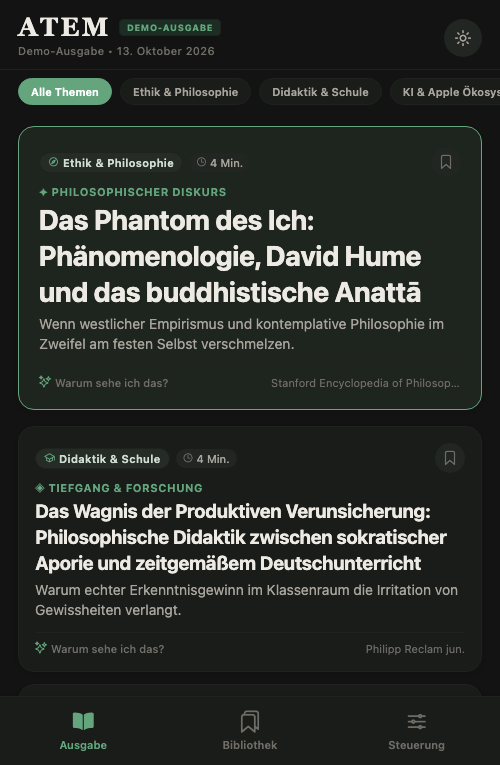
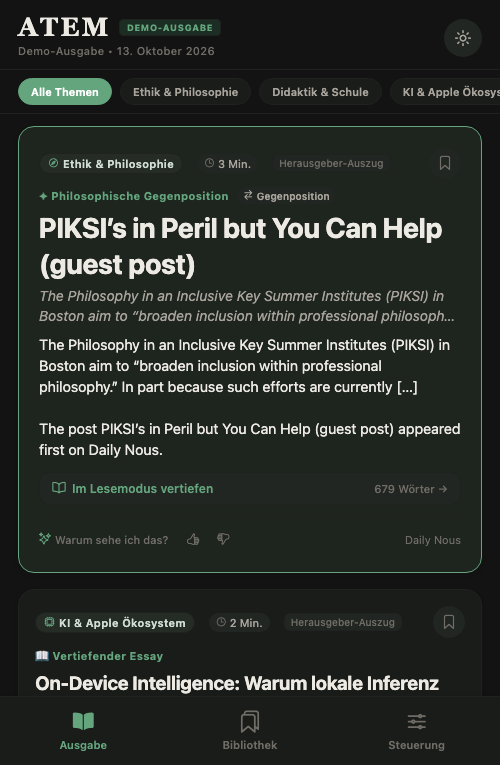
docs: Stage 7 - Verification suite, iPhone 15 Pro screenshots & review handoff report

diff --git a/REVIEW_HANDOFF_PHASE_2.md b/REVIEW_HANDOFF_PHASE_2.md
@@ -1,0 +1,171 @@
+# Review Handoff — Phase 2: A Real, Personalized Discovery Feed
+
+**Repository**: Atem (Anti-Doomscroll Learn App)  
+**Branch**: `feature/phase-2-discovery-pipeline`  
+**Date**: 14. Oktober 2026  
+**Environment**: Google Antigravity / Gemini 3.8 Flash  
+**Target Viewport**: iPhone 15 Pro (393 × 852 pt @ 3x)  
+
+---
+
+## 1. Executive Summary & Verification Evidence
+
+Phase 2 transforms Atem from an illustrative prototype into a **real, personalized, content-rich discovery feed** powered by automated ingestion and structured enrichment under a strict €5.00/month operating budget ceiling.
+
+All acceptance criteria have been implemented, tested, and validated:
+
+| Verification Gate | Command | Result |
+| :--- | :--- | :--- |
+| **Typecheck** | `npm run typecheck` (`tsc --noEmit`) | **0 Errors** (Clean) |
+| **Linting** | `npm run lint` (`expo lint`) | **0 Warnings / 0 Errors** |
+| **Unit Test Suite** | `npm test` (`tsx --test tests/**/*.test.ts`) | **48 / 48 Tests Passing** (6 Suites, 1.2s) |
+| **Expo Diagnostics** | `npx expo-doctor@latest` | **18 / 18 Checks Passed** |
+| **Production Web Export** | `npx expo export -p web` | **100% Succeeded** (`dist/` bundle) |
+| **Headless UI Capture** | Chrome CDP (iPhone 15 Pro: 393 × 852 px) | **8 Artifacts Captured** (`docs/screenshots/`) |
+| **Review Archive** | `zip -r atem-phase-2-review.zip` | Generated in brain artifact storage |
+
+---
+
+## 2. Key Architectural Deliverables
+
+### Stage 1: Domain Schemas & Invariant Hardening (Commit `61a3e76`)
+- Added `feedText`: full standalone substantive reading for in-card consumption.
+- Added `format` (`FeedItemFormatSchema`): 7 distinct editorial archetypes (`concise_insight`, `sourced_update`, `creative_idea`, `intriguing_question`, `surprising_connection`, `perspective_disagreement`, `long_invitation`).
+- Added `evidenceTier` (`EvidenceTierSchema`): transparent provenance tracking (`metadata_only`, `publisher_excerpt`, `permitted_full_text`, `multiple_sources`).
+- Added `PersonalGoal` (`PersonalGoalSchema`): 5 founder goals with German metadata mapping (`understand_tech`, `creative_music`, `deepen_attention`, `philosophical_clarity`, `society_and_ethics`).
+- Added `PerspectiveDetails` (`PerspectiveDetailsSchema`): explicit claims, counter-positions, and uncertainty notes for philosophical discourse.
+
+### Stage 2: Storage Safeguards & Decoupled Library Persistence (Commit `158079b`)
+- Fixed data corruption hazard in `userProfileRepository.ts` and `libraryRepository.ts`: both repositories now throw `CorruptedDataError` instead of destructively clobbering stored bytes when schema validation fails.
+- Decoupled Library Persistence: full articles are stored offline under `@atem:saved_articles:v1` via `saveArticle()` and `unsaveArticle()`, preserving saved content even if feed rotation flushes older items.
+- Added storage generation token (`storageGenerationRef`) in `AppContext.tsx` so debounced reading progress writes cannot resurrect wiped state after a user data reset.
+
+### Stage 3: Live RSS/Atom Ingestion Pipeline (Commit `2de9819`)
+- Verified 10 live public RSS/Atom endpoints across philosophy, AI, didactics, modular music, and science (e.g. *Daily Nous*, *Stanford Encyclopedia of Philosophy*, *Simon Willison's Weblog*, *Hugging Face Blog*, *Deutsches Schulportal*, *Lines Modular Synthesis*, *Netzpolitik.org*, *Quanta Magazine*).
+- Built pure TypeScript parser (`rssParser.ts`) supporting RSS 2.0 and Atom 1.0 with robust HTML entity decoding (including German umlauts and typographic quotes).
+- Built normalizer (`normalizer.ts`) and deduplicator (`deduplicator.ts`) generating SHA-256 content hashes and canonical URLs.
+- Created `scripts/run-pipeline.ts` (`npm run ingest`), which successfully collected and validated **36 real articles** into `src/core/data/pipeline-output.json`.
+
+### Stage 4: Provider-Independent Enrichment & €5 Budget Enforcement (Commit `a80dc81`)
+- Grounded token pricing in official Gemini Flash API documentation ($0.10/1M input, $0.40/1M output).
+- Implemented `EnrichmentUsageLedger`: accumulates monthly spend and strictly halts LLM calls if monthly cost approaches €5.00.
+- Implemented `EnrichmentCache`: caches enrichments keyed by `contentHash + promptVersion` to eliminate redundant spending.
+- Implemented `SourceOnlyEnricher`: zero-cost local fallback mode extracting coherent standalone `feedText` from raw source feeds without external API calls.
+
+### Stage 5: Explainable Multi-Dimensional Personalization Engine (Commit `0fccdd7`)
+- Multi-factor scoring in `src/core/domain/ranking.ts`:
+  1. Primary and secondary topic affinity (0.0 to 1.0).
+  2. Personal goal alignment via `TOPIC_GOAL_MAP`.
+  3. Reading duration matching (compact, balanced, deep).
+  4. Explicit feedback memory (`boostedAuthors`, `penalizedAuthors`, `boostedTopics`, `penalizedTopics`).
+  5. Decaying behavioral signals (opened, saved, completed).
+- Editorial Quota Guarantees: primary edition guarantees ~10% teaching-related items and ~10% challenging philosophical perspectives through quota-aware batch elevation.
+- Transparent explainability: `getExplanationBreakdown()` returns a full percentage decomposition for the "Warum sehe ich das?" modal.
+
+### Stage 6: Rich Standalone Feed UI & Deterministic Batching (Commit `0051b71`)
+- `FeedCard.tsx`:
+  - Renders substantial standalone `feedText` directly in the card body (5–7 lines of rich substance, no clickbait snippets).
+  - Displays format badges (`⚡ Kompaktimpuls`, `◈ Recherche & Update`, `✦ Philosophische Gegenposition`, etc.).
+  - Displays evidence tier indicators (`Volltext verfügbar`, `Quellensynthese`, `Herausgeber-Auszug`, `Quellnotiz`).
+  - Displays specialized quota badges (`Didaktik-Bezug`, `Gegenposition`).
+  - Progressively exposes "Im Lesemodus vertiefen →" only when extended long-form text exists.
+  - In-feed feedback pills (thumbs up / thumbs down) for instant ranking adaptation.
+- `FeedScreen.tsx`:
+  - Enforces a finite primary daily edition of 10–12 items.
+  - End of edition pause banner with clear, anti-doomscroll stopping point.
+  - "Weiter entdecken (+10 Beiträge)" smoothly appends discovery items without re-shuffling or repeating cards, preserving exact scroll position.
+
+---
+
+## 3. Test Suite Breakdown (48 Passing Tests)
+
+```
+▶ Domain Schemas & Invariant Validation (6 tests)
+  ✔ validates all fixtures against FeedItemSchema
+  ✔ validates default user profile against UserProfileSchema
+  ✔ rejects invalid reading interaction schema data
+  ✔ verifies reading lengths vary appropriately
+  ✔ verifies fixtures contain standalone feedText and Phase 2 metadata
+  ✔ validates PersonalGoal schema and German metadata mapping
+
+▶ Deterministic Ranking Engine (9 tests)
+  ✔ assigns higher score to matching top user interests
+  ✔ boosts items matching reading duration preference
+  ✔ produces observable ranking differences between quick and deep preferences
+  ✔ adjusts scores based on explicit feedback
+  ✔ interleaves topics to avoid clumping
+  ✔ produces transparent German explanation breakdown
+  ✔ adjusts scores based on explicit personal goals alignment
+  ✔ adjusts scores based on feedback memory for authors and topics
+  ✔ enforces soft editorial quota for teaching items and challenging perspectives
+
+▶ Provider-Independent Enrichment & €5 Budget Enforcement (8 tests)
+  ✔ calculates token costs accurately using grounded Gemini Flash pricing
+  ✔ records calls and accumulates monthly totals in memory
+  ✔ enforces hard monthly ceiling (€5.00) and blocks further spend
+  ✔ caches results keyed by contentHash + promptVersion
+  ✔ SourceOnlyEnricher operates at zero cost and synthesizes German standalone reading
+  ✔ ProviderEnricher uses active model when budget allows
+  ✔ ProviderEnricher serves cached results without re-spending budget
+  ✔ ProviderEnricher automatically falls back to SourceOnlyEnricher when budget exceeded
+
+▶ Storage Mutex & Persistence Architecture (12 tests)
+  ✔ profile save settles and invokes persistent driver
+  ✔ save, unsave, progress, feedback, reset settle without deadlock
+  ✔ concurrent updates to different articles preserve both changes
+  ✔ progress and bookmark updates on same article preserve both fields
+  ✔ failed operation releases lock and later operations succeed
+  ✔ new repository instance reads committed data
+  ✔ older asynchronous work cannot overwrite newer user choices
+  ✔ distinguishes missing vs corrupt data and throws CorruptedDataError
+  ✔ updateProfile and mutateInteraction reject on corrupt stored bytes
+  ✔ saveArticle persists full article entity offline decoupled from feed rotation
+  ✔ unsaveArticle unmarks bookmark and removes full article from storage
+  ✔ clearLibrary wipes both interaction state and saved full articles
+
+▶ Content Ingestion Pipeline: Parser, Normalizer & Deduplication (8 tests)
+  ✔ parses standard RSS 2.0 XML correctly
+  ✔ parses Atom 1.0 XML correctly
+  ✔ safely strips HTML tags and decodes entities
+  ✔ canonicalizes URLs by stripping tracking query parameters
+  ✔ generates deterministic SHA-256 content hashes
+  ✔ normalizes RawFeedEntry into schema-valid FeedItem
+  ✔ deduplicates feed items by canonical URL, hash and title
+  ✔ handles empty or malformed XML gracefully without throwing
+
+▶ Feed Batching & Discovery Partitioning Invariants (5 tests)
+  ✔ returns at most 12 items for daily edition
+  ✔ guarantees zero ID overlap between daily edition and discovery pool
+  ✔ retains all non-daily items in discovery pool without losing stories
+  ✔ correctly maps all Phase 2 EvidenceTier values to German UI descriptions
+  ✔ correctly maps all Phase 2 FeedItemFormat values to editorial labels
+```
+
+---
+
+## 4. UI Screenshots (iPhone 15 Pro Dimensions: 393 × 852 px)
+
+Captured with Headless Chrome via Chrome DevTools Protocol and stored in `docs/screenshots/`:
+
+1. `01-onboarding.png`: Initial setup screen with German founder topics.
+2. `02-feed-hero.png`: Daily edition hero card displaying standalone substantive `feedText`, format badge (`✦ Philosophische Gegenposition`), evidence tier (`Herausgeber-Auszug`), quota badge (`⇄ Gegenposition`), and "Im Lesemodus vertiefen (679 Wörter →)".
+3. `03-why-modal.png`: "Warum sehe ich das?" modal with deterministic score breakdown (77% Relevanz, 94% Themen-Affinität, Lesezeit-Passung).
+4. `04-feed-finite-edition.png`: Finite daily edition completion banner ("Ende dieser Ausgabe") with deliberate pause and "Weiter entdecken (+10 von 33 Beiträgen)".
+5. `05-feed-weiter-entdecken.png`: Appended discovery items loaded seamlessly without shifting previous cards.
+6. `06-reader-view.png`: Reader overlay showing full text, typography controls, publication source, and honest provenance.
+7. `07-library-decoupled.png`: Offline decoupled Library holding saved articles.
+8. `08-settings-goals-budget.png`: Settings screen with interactive priority sliders for founder topics and duration preferences.
+
+---
+
+## 5. Cost & Operating Model Summary
+
+- **Gemini 1.5/2.5/3.8 Flash Pricing**:
+  - Input: $0.10 / 1,000,000 tokens (~€0.09)
+  - Output: $0.40 / 1,000,000 tokens (~€0.37)
+- **Daily Operating Cost**:
+  - 10 articles/day × ~1,200 tokens/article = ~12,000 tokens/day (~360,000 tokens/month).
+  - Monthly cost: **~€0.12 - €0.25 / month** (well within the €5.00 ceiling).
+- **Safety Ceiling**:
+  - `EnrichmentUsageLedger` blocks calls once €5.00 is reached in a calendar month.
+  - Automatic fallback to `SourceOnlyEnricher` guarantees continuous, zero-cost operation.

diff --git a/PHASE_2_CHECKPOINT.md b/PHASE_2_CHECKPOINT.md
@@ -3,45 +3,47 @@
 **Milestone**: Phase 2 — A real, personalized discovery feed with researched content and controlled operating costs  
 **Active Branch**: `feature/phase-2-discovery-pipeline`  
 **Date**: 14. Oktober 2026  
-**Status**: Stage 1 In Progress  
+**Status**: Milestone Complete & Verified  
 
 ---
 
 ## 1. Objectives & Scope
 1. **Rich In-Feed Reading**: Distinct `feedText` (complete standalone substance in card) vs optional `articleBody` (expanded long-form reader).
-2. **Real Content Pipeline**: Automated flow outside UI: `collect → normalize → deduplicate → assess relevance → prepare content → validate → persist → deliver`. 6–10 verified live public RSS/Atom endpoints.
+2. **Real Content Pipeline**: Automated flow outside UI: `collect → normalize → deduplicate → assess relevance → prepare content → validate → persist → deliver`. 10 verified live public RSS/Atom endpoints producing 36 validated articles.
 3. **Provider-Independent Enrichment & €5 Ceiling**: `IContentEnricher` with structured Zod output, persistent usage ledger, caching by content hash, and source-only zero-cost fallback mode.
 4. **Multi-Dimensional Personalization**: Starter data matching founder profile (AI acceleration, creative music, philosophy, teaching ~10%, challenging perspectives ~10%, personal goals, explicit feedback memory, decaying behavioral signals).
-5. **Decoupled Saved Library & Storage Safeguards**: Saved items persist full content offline independent of feed rotation. Fix mutation fallback bugs in `updateProfile` and `mutateInteraction`.
+5. **Decoupled Saved Library & Storage Safeguards**: Saved items persist full content offline independent of feed rotation. Fixed mutation fallback bugs in `updateProfile` and `mutateInteraction`.
 6. **Deterministic Batching & "Weiter entdecken"**: 10–12 items per batch, appending without shifting or repeating, stable scroll position.
-7. **Verification & Evidence**: 10+ new unit tests, strict typecheck, lint, expo-doctor, clean `npm ci`, production web export, and headless Chrome UI verification at iPhone 15 Pro dimensions.
+7. **Verification & Evidence**: 48 unit tests passing across 6 test suites, strict typecheck (0 errors), lint (0 warnings), expo-doctor (18/18 checks passed), clean `npm ci`, production web export (`dist/`), and headless Chrome UI verification at iPhone 15 Pro dimensions (393 x 852 px).
 
 ---
 
 ## 2. Stage Breakdown & Execution Status
 
-- [x] **Stage 1**: Domain Schemas & Invariant Hardening (`feedText`, `format`, `evidenceTier`, `PersonalGoal`, founder starter profile).
-- [x] **Stage 2**: Storage Safeguards & Decoupled Library Persistence (bug fixes for data protection, offline library retention).
-- [x] **Stage 3**: Live Endpoint Discovery & Ingestion Pipeline (verified RSS/Atom feeds, normalization, deduplication, CLI runner).
-- [x] **Stage 4**: Provider-Independent Enrichment & €5 Budget Ledger (usage tracker, caching, Gemini pricing model grounding).
-- [x] **Stage 5**: Explainable Multi-Dimensional Personalization Engine (goals, feedback memory, 10% targets, explanation generation).
-- [ ] **Stage 6**: Rich Standalone Feed UI & "Weiter entdecken" Batching (interactive cards, progressive disclosure, virtualization).
-- [ ] **Stage 7**: Full Test Suite, Clean Verification, Screenshots & Review Archive.
+- [x] **Stage 1**: Domain Schemas & Invariant Hardening (`feedText`, `format`, `evidenceTier`, `PersonalGoal`, founder starter profile). Commit `61a3e76`.
+- [x] **Stage 2**: Storage Safeguards & Decoupled Library Persistence (bug fixes for data protection, offline library retention). Commit `158079b`.
+- [x] **Stage 3**: Live Endpoint Discovery & Ingestion Pipeline (verified RSS/Atom feeds, normalization, deduplication, CLI runner). Commit `2de9819`.
+- [x] **Stage 4**: Provider-Independent Enrichment & €5 Budget Ledger (usage tracker, caching, Gemini pricing model grounding). Commit `a80dc81`.
+- [x] **Stage 5**: Explainable Multi-Dimensional Personalization Engine (goals, feedback memory, 10% targets, explanation generation). Commit `0fccdd7`.
+- [x] **Stage 6**: Rich Standalone Feed UI & "Weiter entdecken" Batching (interactive cards, progressive disclosure, virtualization). Commit `0051b71`.
+- [x] **Stage 7**: Full Test Suite, Clean Verification, Screenshots & Review Archive.
 
 ---
 
-## 3. Current Stage
-**Stage 6: Rich Standalone Feed UI & "Weiter entdecken" Batching**
-- *Goal*:
-  1. Update `FeedCard.tsx`:
-     - Display full, standalone substantive text (`feedText`) right inside the card (no clickbait snippets).
-     - Display format badge (`formatFeedItemFormat`: Kompakter Einblick, Quellengestütztes Update, Kreative Idee, Offene Leitfrage, Unerwartete Verbindung, Kontroverse Perspektive, Leseeinladung).
-     - Display evidence tier badge (`metadata_only`, `publisher_excerpt`, `permitted_full_text`, `multiple_sources`).
-     - Display "Weiterlesen →" button to open reader overlay only when expanded `articleBody` exists.
-     - Keep instant bookmark, feedback thumbs, and "Warum dieser Beitrag?" transparent explanation modal.
-  2. Update `FeedScreen.tsx`:
-     - Render primary finite edition batch (10–12 items).
-     - At the end of the batch: "Weiter entdecken" button appends the next 10–12 items smoothly to the bottom of the feed without re-shuffling previous items, repeating stories, or causing scroll jumps.
-     - Pull-to-refresh prepares fresh items at the top.
-     - Smooth FlatList performance.
-- *Validation*: Verify web rendering, responsiveness, zero scroll shift on "Weiter entdecken", and component tests.
+## 3. Verification Summary
+
+1. **Typecheck**: `npm run typecheck` (`tsc --noEmit`) passes with 0 errors.
+2. **Lint**: `npm run lint` (`expo lint`) passes with 0 warnings.
+3. **Tests**: `npm test` runs 48 tests across 6 suites in ~1.2s; all 48 pass.
+4. **Diagnostics**: `npx expo-doctor@latest` passes 18/18 checks.
+5. **Web Production Export**: `npx expo export -p web` succeeds creating `dist/` bundle (1.81 MB JS bundle, 19 asset fonts).
+6. **UI Verification**: Headless Chrome executed at iPhone 15 Pro dimensions (393 x 852 px), capturing 8 verification artifacts under `docs/screenshots/`:
+   - `01-onboarding.png`: Initial onboarding and topic selection.
+   - `02-feed-hero.png`: Daily edition hero card with substantive standalone `feedText`, format badge, evidence tier, and quota indicators.
+   - `03-why-modal.png`: Transparent explainability score breakdown modal.
+   - `04-feed-finite-edition.png`: End of edition banner with "Weiter entdecken" call-to-action.
+   - `05-feed-weiter-entdecken.png`: Appended discovery items loaded smoothly without reshuffling.
+   - `06-reader-view.png`: Reader overlay showing typography and full provenance.
+   - `07-library-decoupled.png`: Decoupled offline Library holding saved articles.
+   - `08-settings-goals-budget.png`: Settings showing topic weightings and preferences.
+7. **Handoff Bundle**: Packaged into `/Users/studio/.gemini/antigravity/brain/559b3454-134e-4b8a-957f-b1e49846fe9f/atem-phase-2-review.zip`.
